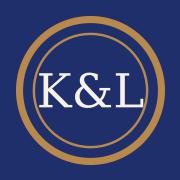
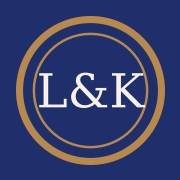
L&K overhaul

Changed region(s): [[0.25, 0.3889, 0.8056, 0.6111]]

diff --git a/src/content.ts b/src/content.ts
@@ -7,14 +7,14 @@ export const asset = (name: string) => `${import.meta.env.BASE_URL}assets/${name
 const vi = {
   lang: 'vi',
 
-  monogram: { left: 'K', right: 'L' },
+  monogram: { left: 'L', right: 'K' },
 
   groom: { full: 'Nguyễn Võ Công Khoa', short: 'Công Khoa' },
   bride: { full: 'Nguyễn Phương Linh', short: 'Phương Linh' },
 
   families: {
-    groom: { label: 'Nhà trai', parents: ['Nguyễn Văn Phụng', 'Võ Lệ Thu'] },
-    bride: { label: 'Nhà gái', parents: ['Nguyễn Kim Minh', 'Dương Minh Nguyệt'] },
+    groom: { label: 'Nhà trai', parents: ['Võ Lệ Thu', 'Nguyễn Văn Phụng'] },
+    bride: { label: 'Nhà gái', parents: ['Dương Minh Nguyệt', 'Nguyễn Kim Minh'] },
   },
 
   invitationLines: ['Trân trọng kính mời', 'quý khách và gia đình', 'đến dự lễ thành hôn của hai con'],
@@ -132,13 +132,13 @@ const vi = {
     title: 'Mừng cưới',
     subtitle: 'Sự hiện diện của bạn là món quà quý nhất',
     body: 'Nếu bạn muốn gửi lời chúc phúc từ xa, chúng mình xin trân trọng đón nhận qua thông tin dưới đây.',
-    roles: ['Chú rể', 'Cô dâu'],
+    roles: ['Cô dâu', 'Chú rể'],
     copy: 'Chạm để sao chép',
     copied: 'Đã sao chép ♡',
     // TẠM: điền thông tin thật, hoặc tắt section này ở `sections`.
     accounts: [
-      { owner: 'Nguyễn Võ Công Khoa', bank: 'Ngân hàng ...', number: '0000 000 000', qr: null as string | null },
       { owner: 'Nguyễn Phương Linh', bank: 'Ngân hàng ...', number: '0000 000 000', qr: null as string | null },
+      { owner: 'Nguyễn Võ Công Khoa', bank: 'Ngân hàng ...', number: '0000 000 000', qr: null as string | null },
     ],
   },
 
@@ -168,7 +168,7 @@ const vi = {
     creditEmail: 'ck@ck-nguyen.com',
   },
 
-  calendarTitle: 'Đám cưới Công Khoa & Phương Linh',
+  calendarTitle: 'Đám cưới Phương Linh & Công Khoa',
 
   ui: {
     directions: 'Chỉ đường',
@@ -322,7 +322,7 @@ const en = merge<Content>(vi, {
     title: 'Wedding gifts',
     subtitle: 'Your presence is the greatest gift',
     body: 'If you would like to send your wishes from afar, we gratefully welcome them via the details below.',
-    roles: ['Groom', 'Bride'],
+    roles: ['Bride', 'Groom'],
     copy: 'Tap to copy',
     copied: 'Copied ♡',
   },
@@ -349,7 +349,7 @@ const en = merge<Content>(vi, {
     contact: 'Contact',
   },
 
-  calendarTitle: 'Wedding of Công Khoa & Phương Linh',
+  calendarTitle: 'Wedding of Phương Linh & Công Khoa',
 
   ui: {
     directions: 'Directions',

diff --git a/index.html b/index.html
@@ -10,14 +10,14 @@
     <meta name="mobile-web-app-capable" content="yes" />
     <meta name="apple-mobile-web-app-capable" content="yes" />
     <meta name="apple-mobile-web-app-status-bar-style" content="black-translucent" />
-    <meta name="apple-mobile-web-app-title" content="Khoa &amp; Linh" />
-    <title>Công Khoa & Phương Linh · 22.12.2026</title>
-    <meta name="description" content="Trân trọng kính mời bạn đến dự lễ thành hôn của Công Khoa & Phương Linh, 22.12.2026 tại Flamingo Cát Bà Resort, Hải Phòng." />
+    <meta name="apple-mobile-web-app-title" content="Linh &amp; Khoa" />
+    <title>Phương Linh & Công Khoa · 22.12.2026</title>
+    <meta name="description" content="Trân trọng kính mời bạn đến dự lễ thành hôn của Phương Linh & Công Khoa, 22.12.2026 tại Flamingo Cát Bà Resort, Hải Phòng." />
 
     <meta property="og:type" content="website" />
-    <meta property="og:site_name" content="Công Khoa & Phương Linh" />
+    <meta property="og:site_name" content="Phương Linh & Công Khoa" />
     <meta property="og:locale" content="vi_VN" />
-    <meta property="og:title" content="Công Khoa & Phương Linh · 22.12.2026" />
+    <meta property="og:title" content="Phương Linh & Công Khoa · 22.12.2026" />
     <meta property="og:description" content="Trân trọng kính mời bạn đến dự lễ thành hôn của chúng mình tại Flamingo Cát Bà Resort, Hải Phòng." />
     <meta property="og:url" content="https://linhkhoa.wedding/" />
     <meta property="og:image" content="https://linhkhoa.wedding/assets/og.jpg" />
@@ -25,7 +25,7 @@
     <meta property="og:image:type" content="image/jpeg" />
     <meta property="og:image:width" content="1200" />
     <meta property="og:image:height" content="630" />
-    <meta property="og:image:alt" content="Công Khoa & Phương Linh · 22.12.2026" />
+    <meta property="og:image:alt" content="Phương Linh & Công Khoa · 22.12.2026" />
     <meta name="twitter:card" content="summary_large_image" />
     <meta name="twitter:image" content="https://linhkhoa.wedding/assets/og.jpg" />
 

diff --git a/src/sections/Hero.tsx b/src/sections/Hero.tsx
@@ -59,9 +59,9 @@ export function Hero({ opened }: { opened: boolean }) {
 
         <div className="absolute inset-x-[19%] top-[17%] bottom-[25%] flex flex-col items-center justify-center text-center">
           <h1 className="text-navy">
-            <span className="hero-write script block text-[clamp(34px,10vw,46px)]">{content.groom.short}</span>
-            <span className="hero-fade script block text-[30px] text-gold">&amp;</span>
             <span className="hero-write script block text-[clamp(34px,10vw,46px)]">{content.bride.short}</span>
+            <span className="hero-fade script block text-[30px] text-gold">&amp;</span>
+            <span className="hero-write script block text-[clamp(34px,10vw,46px)]">{content.groom.short}</span>
           </h1>
           <p className="hero-fade mt-2 font-serif text-[14px] italic text-navy/80">{content.invitationLines[0]}</p>
 

diff --git a/src/sections/Families.tsx b/src/sections/Families.tsx
@@ -29,20 +29,20 @@ export function Families() {
         <HeartDivider />
       </div>
       <p data-reveal="blur" className="script mt-3 text-[38px] text-navy">
-        {content.groom.full}
+        {content.bride.full}
       </p>
       <p data-reveal="fade" className="script text-[34px] text-gold">
         &amp;
       </p>
       <p data-reveal="blur" className="script text-[38px] text-navy">
-        {content.bride.full}
+        {content.groom.full}
       </p>
       <div data-reveal="fade" className="mt-3">
         <HeartDivider />
       </div>
 
       <div data-reveal="up" className="mx-auto mt-10 grid max-w-[360px] grid-cols-[1fr_auto_1fr] items-start gap-3">
-        {[groom, null, bride].map((fam, i) =>
+        {[bride, null, groom].map((fam, i) =>
           fam ? (
             <div key={i}>
               <p className="eyebrow text-navy">{fam.label}</p>

diff --git a/src/sections/Footer.tsx b/src/sections/Footer.tsx
@@ -23,13 +23,13 @@ export function Footer({ onClose }: { onClose: () => void }) {
       <GoldDust count={24} />
       <div className="relative px-6">
         <p data-reveal="blur" className="script text-[56px] leading-none text-navy">
-          {content.groom.short}
+          {content.bride.short}
         </p>
         <p data-reveal="fade" className="script text-[36px] text-gold">
           &amp;
         </p>
         <p data-reveal="blur" className="script text-[56px] leading-none text-navy">
-          {content.bride.short}
+          {content.groom.short}
         </p>
         <p data-reveal="fade" className="eyebrow mt-4 text-gold">
           {content.date.display}

diff --git a/src/sections/ScratchReveal.tsx b/src/sections/ScratchReveal.tsx
@@ -153,7 +153,7 @@ export function ScratchReveal() {
           >
             <img
               src={content.scratch.photo}
-              alt={`${content.groom.short} & ${content.bride.short}`}
+              alt={`${content.bride.short} & ${content.groom.short}`}
               loading="lazy"
               className={`h-full w-full origin-top object-cover object-[center_12%] transition-transform duration-[2500ms] ease-out ${revealed ? 'scale-100' : 'scale-105'}`}
             />

diff --git a/src/fx/Ornaments.tsx b/src/fx/Ornaments.tsx
@@ -45,8 +45,8 @@ export function Sprig({ className = '', ...props }: P) {
   )
 }
 
-// Great Vibes ink sits right of and above its advance box; measured offsets that optically centre "K&L".
-const MONO_DX = -5
+// Great Vibes ink sits right of and above its advance box; measured offsets that optically centre "L&K".
+const MONO_DX = -10
 const MONO_DY = 5
 
 /** Wax-seal style monogram for the gate. */

diff --git a/AGENTS.md b/AGENTS.md
@@ -33,7 +33,7 @@ Stack: Vite 8, React 19, TypeScript, Tailwind v4 (`@tailwindcss/vite`, tokens in
 - **Program SVG** is drawn at real pixel width (ResizeObserver). Don't reintroduce `preserveAspectRatio="none"` + `vector-effect` - dashes break in Chrome.
 - **ScrollTrigger positions** go stale as lazy images load; `useSmoothScroll` refreshes on body height change. Keep it.
 - **Scratch canvas** sizes from `offsetWidth/offsetHeight` (not `getBoundingClientRect`) because the reveal animation scales the parent. Inner hole of `oval.webp` is in `INNER` (percent of image box); re-measure if the oval art changes.
-- **Gate**: owner wants it simple - the seal just fades, the doors open, then the gate fades into the page. No spinning/shrinking seal, no envelope/card-pull effects (tried and rejected as "try hard"). The `K&L` in `Seal` is optically centred with measured `MONO_DX/MONO_DY` (Great Vibes ink is offset from its advance box); re-measure if the font or letters change.
+- **Gate**: owner wants it simple - the seal just fades, the doors open, then the gate fades into the page. No spinning/shrinking seal, no envelope/card-pull effects (tried and rejected as "try hard"). The `L&K` in `Seal` is optically centred with measured `MONO_DX/MONO_DY` (Great Vibes ink is offset from its advance box); re-measure if the font or letters change.
 - **Language switch keeps DOM nodes**: key translated lists by index, not by text, or switching remounts them and they lose their scroll-reveal state. The scratch canvas repaints its hint on switch only if the guest hasn't scratched yet.
 - **Browser testing**: with Lenis active, `window.scrollTo` gets overridden - scroll via Lenis instead (temporarily expose it on `window` in DEV; remove afterwards).
 
